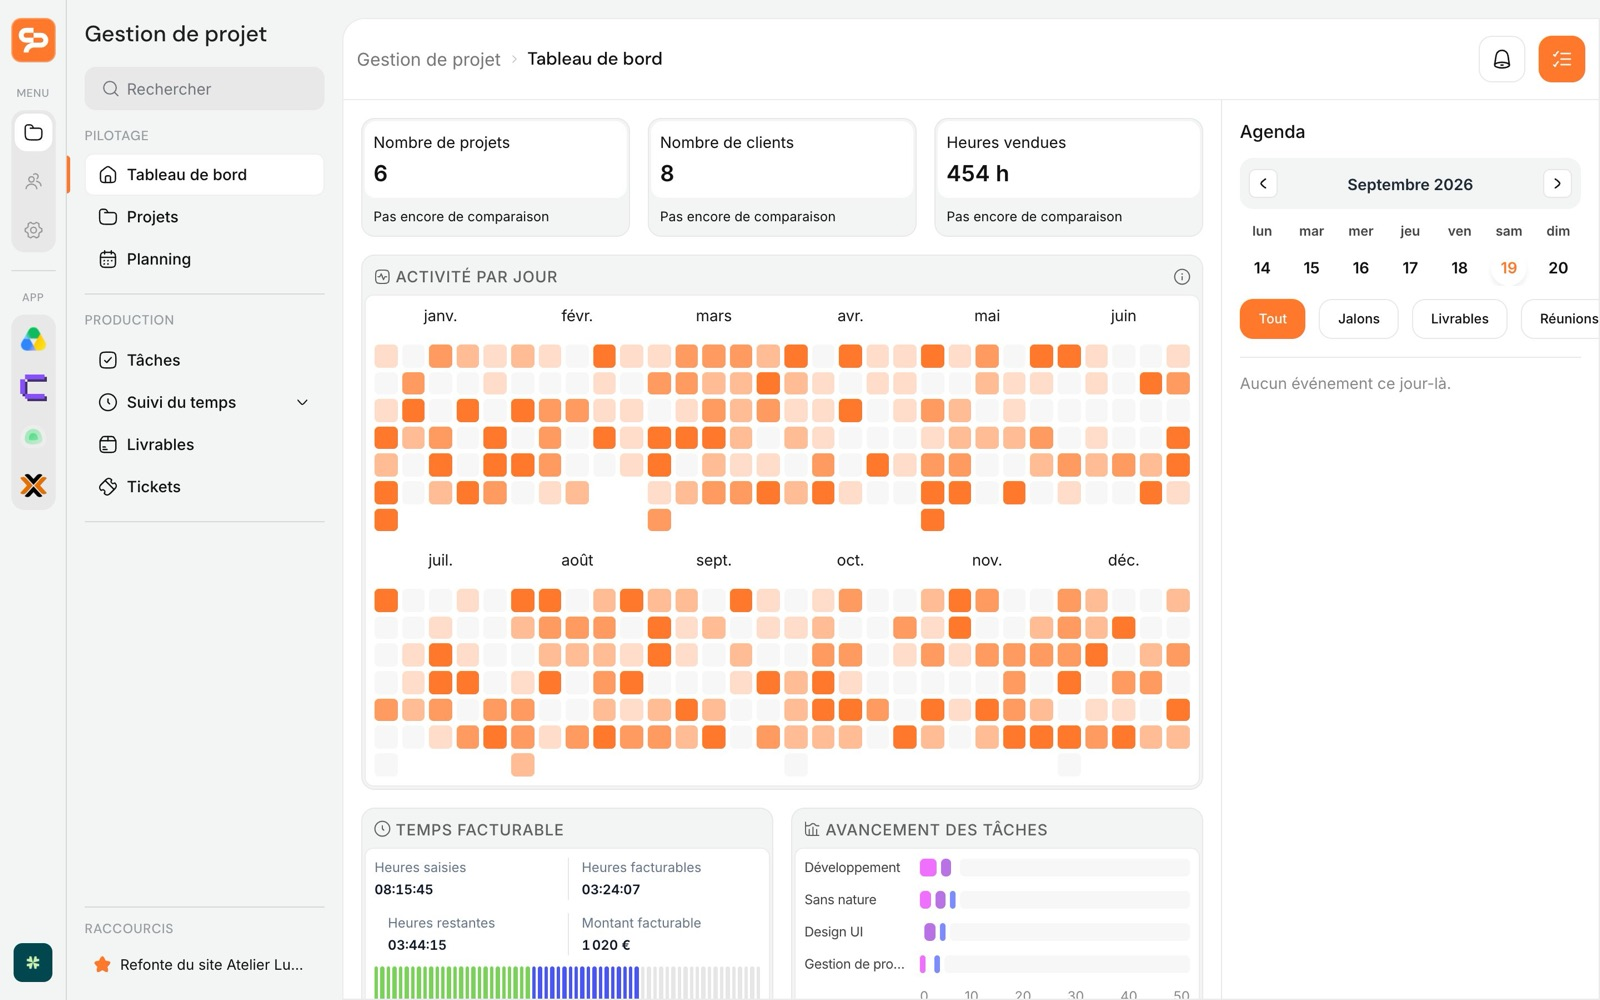
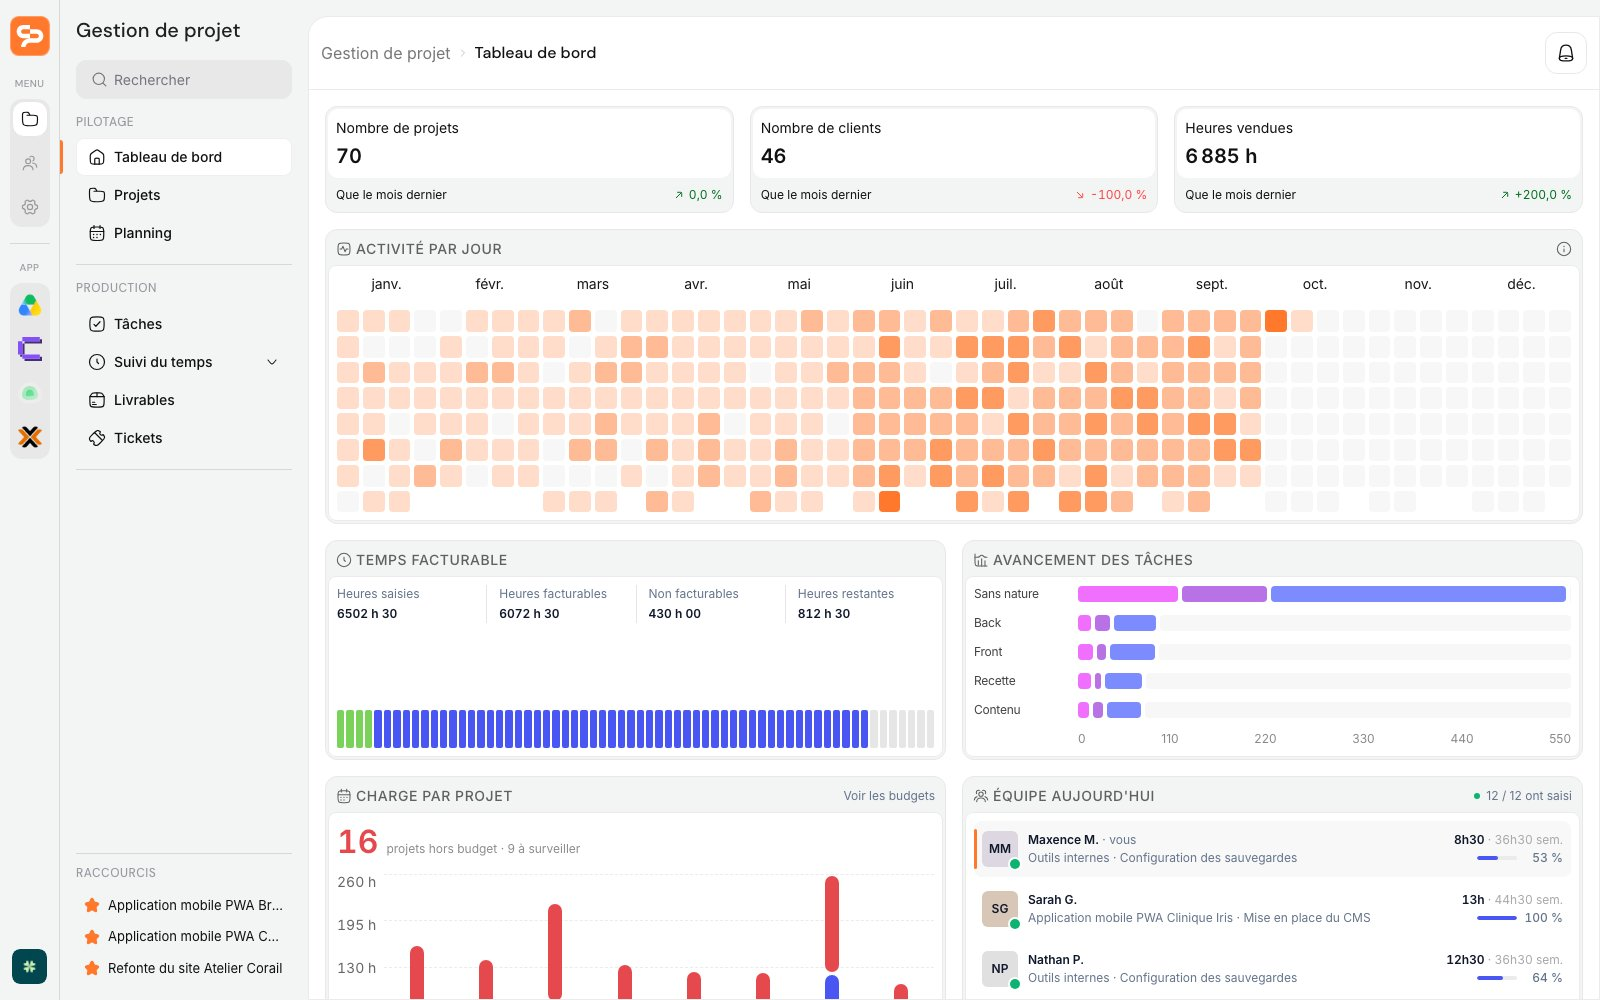
docs: notes de la 0.4.0, README et roadmap à jour, captures refaites

diff --git a/CHANGELOG.md b/CHANGELOG.md
@@ -11,6 +11,47 @@ de release GitHub. Voir « Publier une version » dans le README.
 
 <!-- releases -->
 
+## [0.4.0] — Temps et budgets
+
+Cette version termine le pilotage du temps : chaque projet affiche où il en est de son budget, et le tableau de bord ne montre plus que des données réelles. Elle s'adresse aux administrateurs qui suivent la rentabilité des projets et la charge de l'équipe. C'est aussi la première version publiée sous licence libre.
+
+### Points forts
+
+- Budget de chaque projet : heures consommées sur heures vendues, avec une alerte à 80 % et au-delà de 100 %.
+- Liste des projets filtrable et triable par budget, pour retrouver d'un coup ceux qui dérivent.
+- Tableau de bord entièrement réel : activité de l'année, charge par projet, temps de l'équipe du jour et de la semaine.
+- Piilot est distribué sous licence AGPL-3.0, et son image Docker est publiée sur GitHub.
+
+### Nouveautés
+
+#### Admin
+
+- **Budget sur la carte projet** : heures consommées sur heures vendues, à côté de l'échéance. La mention passe en orange « À surveiller » à partir de 80 % du budget consommé, et en rouge « Hors budget » au-delà. Les projets internes et ceux sans heures vendues n'ont pas d'alerte.
+- **Budget sur la fiche projet** : une barre sous l'avancement, avec les heures restantes ou dépassées. Un projet sans heures vendues propose un lien vers la page où les saisir.
+- **Filtre « Budget »** dans la liste des projets (« À surveiller », « Hors budget ») et tri par part du budget consommée.
+- **Charge par projet** (tableau de bord) : les huit projets en cours les plus avancés dans leur budget, avec la part consommée et le dépassement, et le nombre de projets hors budget ou à surveiller. Un clic sur une barre ouvre le projet.
+- **Équipe aujourd'hui** (tableau de bord) : pour chaque membre, le temps saisi dans la journée et depuis lundi, la part facturable du jour et le dernier projet sur lequel il a pointé.
+- **Activité par jour** (tableau de bord) : une case par jour de l'année, selon le nombre de tâches terminées, de tickets ouverts et de versions de livrables déposées.
+
+### Améliorations
+
+- La page Budget d'un projet recalcule l'alerte pendant la saisie des heures vendues, avec le même seuil que le reste de l'application.
+- L'agenda du tableau de bord, qui n'affichait que des événements d'exemple, est retiré. Il reviendra avec le planning.
+
+### Technique
+
+- Licence AGPL-3.0, guide de contribution, politique de sécurité et modèles d'issue et de pull request.
+- Chaque version publie l'image sur `ghcr.io/plugiit/piilot-app`, avec les tags `X.Y.Z`, `X.Y` et `latest`.
+- L'activité quotidienne est précalculée par déclencheur dans une table dédiée : le tableau de bord la lit sans rien recompter.
+- Paramètre `budget` (`warning`, `over`) sur `GET /api/v1/admin/projects`, champ `budget_state` sur les projets, et nouveaux blocs dans `GET /api/v1/admin/dashboard`.
+- Nom technique aligné sur Piilot : cookies de session, émetteur des jetons et base de développement.
+
+### À savoir pour le déploiement
+
+- Migration `000028_daily_activity`, appliquée au démarrage : crée la table d'activité quotidienne et la remplit à partir des tâches terminées, des tickets et des versions de livrables existants.
+- Les cookies de session changent de nom : **tout le monde est déconnecté une fois** après la mise à jour.
+- Aucune nouvelle variable d'environnement.
+
 ## [0.3.2] — Rapports de temps · 2026-09-19
 
 Cette version ouvre l'écran des rapports de temps : le temps de toute l'équipe sur une période, réparti entre facturable et non facturable, filtrable et exportable. Elle s'adresse aux administrateurs qui bouclent le mois ou suivent la charge d'un projet.

diff --git a/README.md b/README.md
@@ -46,21 +46,24 @@ Une seule application, trois espaces :
 
 ### Tableau de bord
 
-Les chiffres clés de l'agence (projets, clients, heures vendues) et
-l'avancement des tâches par service. La barre latérale donne des raccourcis
-vers les projets favoris.
+Les chiffres clés de l'agence (projets, clients, heures vendues), l'activité
+de l'année jour par jour (tâches terminées, tickets ouverts, livrables
+déposés), le temps facturable et l'avancement des tâches par service.
 
-> La carte d'activité, le temps facturable et l'agenda de cet écran sont
-> encore des emplacements factices. Ils seront retirés en 0.4, puis branchés
-> sur des données réelles en 0.7 (voir la [roadmap](ROADMAP.md)).
+Deux blocs servent à piloter la charge : les projets en cours les plus avancés
+dans leur budget, avec le nombre de projets hors budget ou à surveiller, et le
+temps saisi par chaque membre de l'équipe aujourd'hui et depuis lundi. La
+barre latérale donne des raccourcis vers les projets favoris.
 
 ![Tableau de bord](docs/images/dashboard.jpg)
 
 ### Projets
 
 Tous les projets de l'agence en cartes : statut (cadrage, production, attente
-client, livré), équipe, échéance, priorité et avancement. Recherche, filtres
-par statut et par client, tri, pagination côté serveur.
+client, livré), équipe, échéance, priorité, avancement et heures consommées
+sur heures vendues. Un projet passe « à surveiller » à 80 % de son budget et
+« hors budget » au-delà. Recherche, filtres par statut, client et budget, tri,
+pagination côté serveur.
 
 ![Liste des projets](docs/images/projets.jpg)
 
@@ -150,7 +153,8 @@ La fiche client regroupe ses contacts, ses projets, son identité d'entreprise
 | Saisie du temps | ✅ En place |
 | CRM : clients, contacts, pipeline | ✅ En place |
 | Services, apps de la barre latérale, notifications | ✅ En place |
-| Rapports de temps | 🚧 Écran réservé, pas encore développé |
+| Rapports de temps | ✅ En place |
+| Budgets et alertes de dépassement | ✅ En place |
 | CRM : interactions | 🚧 Écran réservé, pas encore développé |
 | Modèles de projet, gestion des comptes | 🚧 Écrans réservés, pas encore développés |
 | Planning | ↗ Renvoie vers l'agenda partagé de l'agence |

diff --git a/ROADMAP.md b/ROADMAP.md
@@ -148,10 +148,13 @@ suivantes :
 
 - **Rapports de temps** ✅ : par projet, personne, service, client et période ;
   facturable et non facturable ; export CSV.
-- **Budgets réels** : heures vendues, consommées (depuis la saisie du temps),
-  restantes. Alerte de dépassement.
-- **Tableau de bord** : compteurs réels (projets, clients, heures, services),
-  à la place des widgets factices. Activité du jour, charge par personne.
+- **Budgets réels** ✅ : heures vendues, consommées (depuis la saisie du temps),
+  restantes. Alerte « à surveiller » à 80 % du budget, « hors budget » au-delà.
+  Filtre et tri par budget dans la liste des projets.
+- **Tableau de bord** ✅ : compteurs réels (projets, clients, heures, services),
+  à la place des widgets factices. Activité de l'année, charge par projet,
+  temps de chaque personne aujourd'hui et sur la semaine. L'agenda factice est
+  retiré, il revient avec le planning en 0.7.
 
 **Technique**
 
